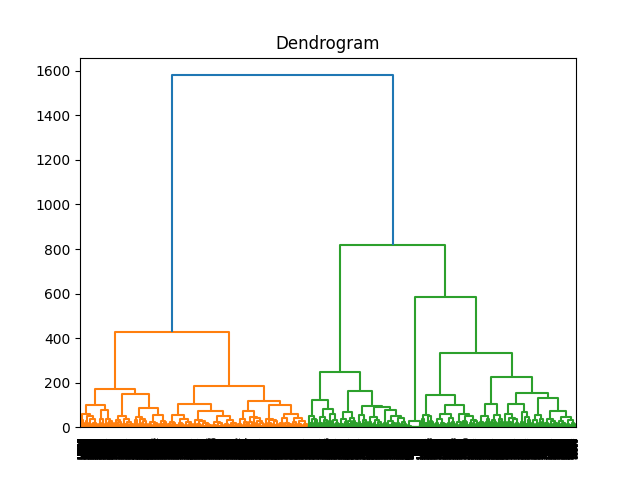
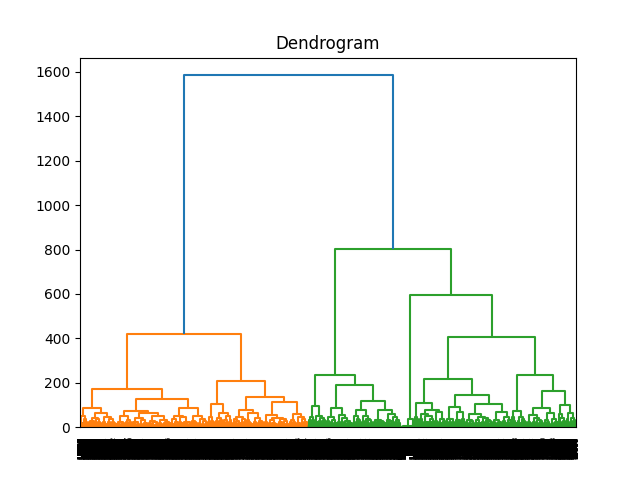
Code Complete

diff --git a/compare_countries.py b/compare_countries.py
@@ -32,7 +32,7 @@ df_hk.dropna(inplace=True)
 machine = FactorAnalyzer(n_factors=40, rotation=None)
 machine.fit(df_us)
 ev_US,v = machine.get_eigenvalues()
-print(ev_US)
+#print(ev_US)
 
 pyplot.scatter(range(1,df_us.shape[1]+1),ev_US)
 pyplot.savefig("evplot_US.png")
@@ -42,7 +42,7 @@ pyplot.savefig("evplot_US.png")
 machine = FactorAnalyzer(n_factors=40, rotation=None)
 machine.fit(df_hk)
 ev_HK,v = machine.get_eigenvalues()
-print(ev_HK)
+#print(ev_HK)
 
 pyplot.scatter(range(1,df_hk.shape[1]+1),ev_HK)
 pyplot.savefig("evplot_HK.png")
@@ -55,34 +55,35 @@ machine.fit(df_us)
 
 loadings = machine.loadings_
 numpy.set_printoptions(suppress=True)
-print(loadings)
-print(machine.get_factor_variance())
+#print(loadings)
+#print(machine.get_factor_variance())
 
 
 df_us = df_us.values 
 result = numpy.dot(df_us,loadings)
-print(result)
-print(result.shape)
+#print(result)
+#print(result.shape)
 
 ## For HK it is harder to choose the appropote number of factors, we do not have a diminsihing marginal returns. 
 
-machine = FactorAnalyzer(n_factors=6, rotation='varimax')
+machine = FactorAnalyzer(n_factors=10, rotation='varimax')
 machine.fit(df_hk)
 
 loadings = machine.loadings_
 numpy.set_printoptions(suppress=True)
-print(loadings)
-print(machine.get_factor_variance())
+#print(loadings)
+#print(machine.get_factor_variance())
 
 
 df_hk = df_hk.values 
 result = numpy.dot(df_hk,loadings)
-print(result)
-print(result.shape)
+#print(result)
+#print(result.shape)
 
 ## Compare the Analysis with AHC Clustering 
 
 #AHC - US
+print("US AHC silhouette score")
 pyplot.title("Dendrogram_US")
 dendrogram_object = shc.dendrogram(shc.linkage(df_us, method = "ward")) 
 pyplot.savefig("dendrogram_US.png")
@@ -91,21 +92,21 @@ pyplot.close()
 machine = AgglomerativeClustering(n_clusters = 4, affinity="euclidean", linkage="ward")
 results_ahc_us = machine.fit_predict(df_us)
 
-silhouette = (silhouette_score(data, results_ahc_us, metric = 'euclidean'))
+silhouette = (silhouette_score(df_us, results_ahc_us, metric = 'euclidean'))
 print(silhouette)
 
 
 # AHC - HK
-
+print("HK AHC silhouette score")
 pyplot.title("Dendrogram_HK")
 dendrogram_object = shc.dendrogram(shc.linkage(df_hk, method = "ward")) 
 pyplot.savefig("dendrogram_HK.png")
 pyplot.close()
 #Optimum # is 4 from the Dendrogram
 machine = AgglomerativeClustering(n_clusters = 4, affinity="euclidean", linkage="ward")
-results_ahc_us = machine.fit_predict(df_hk)
+results_ahc_hk = machine.fit_predict(df_hk)
 
-silhouette = (silhouette_score(data, results_ahc_hk, metric = 'euclidean'))
+silhouette = (silhouette_score(df_hk, results_ahc_hk, metric = 'euclidean'))
 print(silhouette)
 
 

diff --git a/final.py b/final.py
@@ -27,8 +27,8 @@ ev,v = machine.get_eigenvalues()
 pyplot.scatter(range(1,dataset.shape[1]+1),ev)
 pyplot.savefig("evplot.png")
 
-# Using 3 Factors
-machine = FactorAnalyzer(n_factors=3, rotation='varimax')
+# Using 6 Factors
+machine = FactorAnalyzer(n_factors=6, rotation='varimax')
 machine.fit(dataset)
 
 loadings = machine.loadings_
@@ -79,15 +79,16 @@ print(gmm_silhouette_list)
 # The optimal number of clusters is 3 based on Silhouette Score
 
 #AHC
+print("AHC")
 pyplot.title("Dendrogram")
 dendrogram_object = shc.dendrogram(shc.linkage(data, method = "ward")) 
 pyplot.savefig("dendrogram.png")
 pyplot.close()
   
 machine = AgglomerativeClustering(n_clusters = 4, affinity="euclidean", linkage="ward")
-results_ahc_us = machine.fit_predict(data) 
+results_ahc = machine.fit_predict(data) 
 
-silhouette = (silhouette_score(data, results_ahc_us, metric = 'euclidean'))
+silhouette = (silhouette_score(data, results_ahc, metric = 'euclidean'))
 print(silhouette)
 
 
